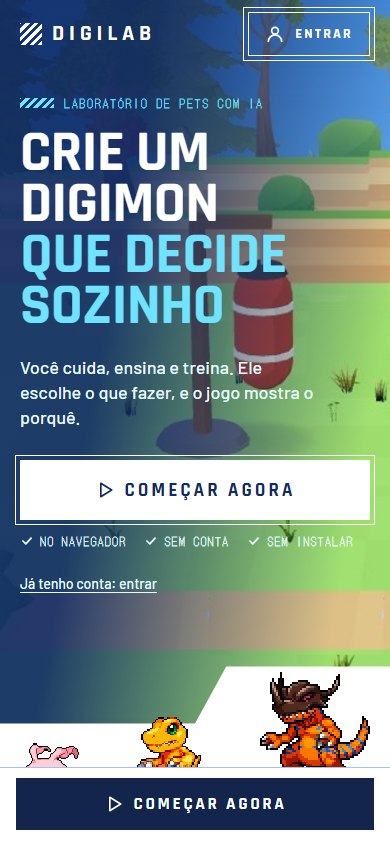
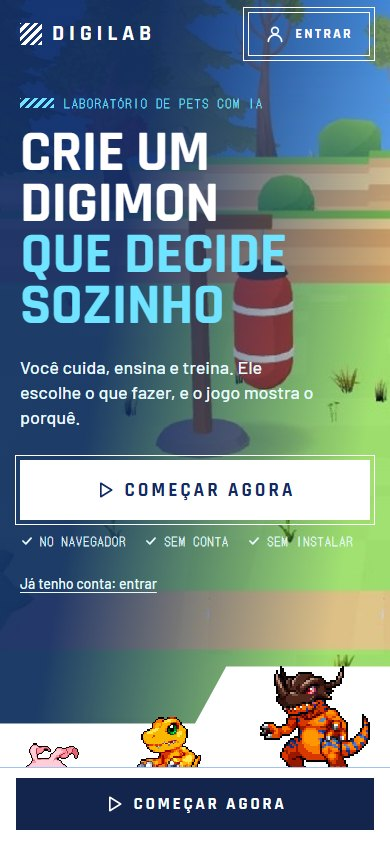
UX_TELA_PET: o Greymon da pagina de entrada de olho aberto

Changed region(s): [[0.6462, 0.7701, 0.9538, 0.9242]]

diff --git a/docs/pranchas/ux-pagina-inicial/inicial.html b/docs/pranchas/ux-pagina-inicial/inicial.html
@@ -23,7 +23,7 @@
     <a class="ja" href="#/config/conta">Já tenho conta: entrar</a>
   </div>
   <span class="corte" aria-hidden="true"></span>
-  <div class="fila" aria-label="A linha do Agumon, do In-Training ao Mega"><figure><span class="pet vira" role="img" aria-label="Koromon" style="width:59px;height:49px;background-image:url('../../../../Assets/arena_up/sprites/Koromon.png');background-size:956px 668px;background-position:-60px -44px"></span><figcaption class="lcd"><b>Koromon</b><span class="nv"> · In-Training</span></figcaption></figure><figure><span class="pet vira" role="img" aria-label="Agumon" style="width:68px;height:75px;background-image:url('../../../../Assets/arena_up/sprites/Agumon.png');background-size:996px 723px;background-position:-50px -18px"></span><figcaption class="lcd"><b>Agumon</b><span class="nv"> · Rookie</span></figcaption></figure><figure><span class="pet vira" role="img" aria-label="Greymon" style="width:110px;height:120px;background-image:url('../../../../Assets/arena_up/sprites/Greymon.png');background-size:1244px 1104px;background-position:-48px -24px"></span><figcaption class="lcd"><b>Greymon</b><span class="nv"> · Champion</span></figcaption></figure><figure><span class="pet vira" role="img" aria-label="MetalGreymon" style="width:144px;height:122px;background-image:url('../../../../Assets/arena_up/sprites/MetalGreymon.png');background-size:1733px 1096px;background-position:-88px -24px"></span><figcaption class="lcd"><b>MetalGreymon</b><span class="nv"> · Ultimate</span></figcaption></figure><figure><span class="pet vira" role="img" aria-label="WarGreymon" style="width:169px;height:136px;background-image:url('../../../../Assets/arena_up/sprites/WarGreymon_Adventure.png');background-size:3032px 2431px;background-position:-183px -194px"></span><figcaption class="lcd"><b>WarGreymon</b><span class="nv"> · Mega</span></figcaption></figure></div>
+  <div class="fila" aria-label="A linha do Agumon, do In-Training ao Mega"><figure><span class="pet vira" role="img" aria-label="Koromon" style="width:59px;height:49px;background-image:url('../../../../Assets/arena_up/sprites/Koromon.png');background-size:956px 668px;background-position:-60px -44px"></span><figcaption class="lcd"><b>Koromon</b><span class="nv"> · In-Training</span></figcaption></figure><figure><span class="pet vira" role="img" aria-label="Agumon" style="width:68px;height:75px;background-image:url('../../../../Assets/arena_up/sprites/Agumon.png');background-size:996px 723px;background-position:-50px -18px"></span><figcaption class="lcd"><b>Agumon</b><span class="nv"> · Rookie</span></figcaption></figure><figure><span class="pet vira" role="img" aria-label="Greymon" style="width:110px;height:126px;background-image:url('../../../../Assets/arena_up/sprites/Greymon.png');background-size:1244px 1104px;background-position:-760px -650px"></span><figcaption class="lcd"><b>Greymon</b><span class="nv"> · Champion</span></figcaption></figure><figure><span class="pet vira" role="img" aria-label="MetalGreymon" style="width:144px;height:122px;background-image:url('../../../../Assets/arena_up/sprites/MetalGreymon.png');background-size:1733px 1096px;background-position:-88px -24px"></span><figcaption class="lcd"><b>MetalGreymon</b><span class="nv"> · Ultimate</span></figcaption></figure><figure><span class="pet vira" role="img" aria-label="WarGreymon" style="width:169px;height:136px;background-image:url('../../../../Assets/arena_up/sprites/WarGreymon_Adventure.png');background-size:3032px 2431px;background-position:-183px -194px"></span><figcaption class="lcd"><b>WarGreymon</b><span class="nv"> · Mega</span></figcaption></figure></div>
   <span class="regua" aria-hidden="true"></span>
   <span class="nota" style="right:20px;top:90px;max-width:320px">1 · a ideia do 'Explore 14K': a imagem grande (a ilha de verdade, de uma captura do jogo), o título em caixa alta e UM botão. Ele leva direto ao jogo (CN-1: sem conta)</span>
   <span class="nota" style="right:20px;bottom:150px;max-width:300px">embaixo a imagem acaba num corte reto, em degrau (as formas do Valorant), e os pets ficam na borda, sobre uma régua de laboratório. É a linha do Agumon no jogo (nomes.ts e formas.ts), do In-Training ao Mega; é uma das linhas possíveis, não a única</span>
@@ -83,7 +83,7 @@
   <ul class="tres">
     <li><span class="palco"><span class="pet" role="img" aria-label="Tokomon" style="width:61px;height:48px;background-image:url('../../../../Assets/arena_up/sprites/Tokomon.png');background-size:2164px 1036px;background-position:-30px -534px"></span></span><h3>Cuidar</h3><p>Alimentar, brincar, limpar e dar carinho. Ele sente e responde.</p></li>
     <li><span class="palco"><span class="pet" role="img" aria-label="Agumon" style="width:68px;height:75px;background-image:url('../../../../Assets/arena_up/sprites/Agumon.png');background-size:996px 723px;background-position:-50px -18px"></span></span><h3>Treinar</h3><p>Seis exercícios no saco de pancada. O treino muda os golpes.</p></li>
-    <li><span class="palco"><span class="pet" role="img" aria-label="Greymon" style="width:61px;height:66px;background-image:url('../../../../Assets/arena_up/sprites/Greymon.png');background-size:684px 607px;background-position:-26px -13px"></span></span><h3>Lutar</h3><p>Ele luta sozinho na arena. Seis medalhas até a Liga.</p></li>
+    <li><span class="palco"><span class="pet" role="img" aria-label="Greymon" style="width:61px;height:69px;background-image:url('../../../../Assets/arena_up/sprites/Greymon.png');background-size:684px 607px;background-position:-418px -358px"></span></span><h3>Lutar</h3><p>Ele luta sozinho na arena. Seis medalhas até a Liga.</p></li>
   </ul>
   <div class="fecho"><a class="bt claro jogar" href="#/pet"><svg class="ic" viewBox="0 0 24 24" aria-hidden="true"><path d="M7 4l13 8-13 8z"/></svg>Começar agora</a><ul class="garantias" aria-label="Para começar"><li><svg class="ic" viewBox="0 0 24 24" aria-hidden="true"><path d="M5 12l5 5 9-10"/></svg>No navegador</li><li><svg class="ic" viewBox="0 0 24 24" aria-hidden="true"><path d="M5 12l5 5 9-10"/></svg>Sem conta</li><li><svg class="ic" viewBox="0 0 24 24" aria-hidden="true"><path d="M5 12l5 5 9-10"/></svg>Sem instalar</li></ul></div>
   <span class="nota" style="left:20px;top:80px;max-width:300px">4 · a faixa azul do fim, com a borda em degraus de circuito no lugar do papel rasgado, três colunas e o botão de novo</span>

diff --git a/docs/pranchas/ux-pagina-inicial/gerar.py b/docs/pranchas/ux-pagina-inicial/gerar.py
@@ -46,6 +46,11 @@ def ic(n: str, cls: str = "ic") -> str:
     return f'<svg class="{cls}" viewBox="0 0 24 24" aria-hidden="true">{IC[n]}</svg>' if n in IC else G.svg(n, cls)
 
 
+# o primeiro quadro do Greymon esta de olho fechado (o Matheus viu, 2026-11-12): a folha tem 7 x 7 quadros de 622/7 x 552/7 px, e o
+# escolhido e o da coluna 5, linha 5 (parado, de olho aberto)
+REGIAO = {"Greymon": (355, 315, 444, 394)}
+
+
 def _primeira_faixa(ocupado: list) -> tuple[int, int]:
     """a primeira faixa ocupada com 8 px ou mais (algumas folhas tem um pixel solto antes do primeiro quadro)"""
     i = 0
@@ -63,10 +68,13 @@ def pet(nome: str, k: float, vira: bool = False, arq: str = "") -> str:
     im = Image.open(ASSETS / f"{arq}.png").convert("RGBA")
     al = im.getchannel("A")
     W, H = im.size
-    x0, x1 = _primeira_faixa([al.crop((x, 0, x + 1, H)).getbbox() is not None for x in range(W)])
-    y0, y1 = _primeira_faixa([al.crop((x0, y, x1, y + 1)).getbbox() is not None for y in range(H)])
+    if nome in REGIAO:   # um quadro escolhido a mao, pela regiao dele na folha
+        x0, y0, x1, y1 = REGIAO[nome]
+    else:
+        x0, x1 = _primeira_faixa([al.crop((x, 0, x + 1, H)).getbbox() is not None for x in range(W)])
+        y0, y1 = _primeira_faixa([al.crop((x0, y, x1, y + 1)).getbbox() is not None for y in range(H)])
     bx = al.crop((x0, y0, x1, y1)).getbbox()
-    x0, x1 = x0 + bx[0], x0 + bx[2]
+    x0, x1, y0, y1 = x0 + bx[0], x0 + bx[2], y0 + bx[1], y0 + bx[3]
     return (f'<span class="pet{" vira" if vira else ""}" role="img" aria-label="{nome}" style="width:{(x1 - x0) * k:.0f}px;height:{(y1 - y0) * k:.0f}px;'
             f"background-image:url('{G.A}/sprites/{arq}.png');background-size:{W * k:.0f}px {H * k:.0f}px;"
             f'background-position:{-x0 * k:.0f}px {-y0 * k:.0f}px"></span>')

diff --git a/docs/REGISTRO_DESVIOS.md b/docs/REGISTRO_DESVIOS.md
@@ -738,6 +738,7 @@ de base em `docs/historico/registro_lotes.json`.
 - [2026-11-12 — GOSTO_VISUAL, GV3b: o adendo da GV3 com o enjoo ligado (Claude Code, Opus 5.5, branch `v3-gosto-visual-gv3b`)](registro/2026-11.md)
 - [2026-11-12 — CONTA: o anúncio que destrava a função paga e a análise por posição (Claude Code, Opus 5.5, branch `v3-conta-anuncios`)](registro/2026-11.md)
 - [2026-11-12 — CONTA: as CN-15 a CN-18 decididas pela recomendação (Claude Code, Opus 5.5, branch `v3-conta-anuncios`)](registro/2026-11.md)
+- [2026-11-12 — GOSTO_VISUAL, GV3b: as escolhas do adendo DECIDIDAS, antes da primeira vida (Claude Code, Opus 5.5, branch `v3-gosto-visual-gv3b-resultado`)](registro/2026-11.md)
 - [2026-11-12 — UX_TELA_PET, a prancha da conta: entrar e primeiro acesso (Gerente da UX_TELA_PET, Claude Code, Fable 5.2, branch `v3-ux-conta-pranchas`)](registro/2026-11.md)
 - [2026-11-12 — GOSTO_VISUAL: a TV no jogo, as decisões A a E e o enjoo ligado (Claude Code, Opus 5.5, branch `v3-gosto-visual-tv-jogo`)](registro/2026-11.md)
 - [2026-11-12 — CONTA: a comparação dos provedores de nuvem (Claude Code, Opus 5.5, branch `v3-conta-hospedagem`)](registro/2026-11.md)
@@ -751,6 +752,7 @@ de base em `docs/historico/registro_lotes.json`.
 - [2026-11-12 — COOPERACAO: o plano da bancada aprovado (Claude Code, Opus 5.5, branch `v3-cooperacao-bancada-aprovado`)](registro/2026-11.md)
 - [2026-11-12 — UX_TELA_PET, a prancha da página de entrada (Gerente da UX_TELA_PET, Claude Code, Fable 5.2, branch `v3-ux-pagina-inicial`)](registro/2026-11.md)
 - [2026-11-12 — MOITA_NINHO: o que tapa o pet fica transparente (Claude Code, Opus 5.5, worker, branch `v3-moita-ninho`)](registro/2026-11.md)
+- [2026-11-12 — GOSTO_VISUAL, GV3b: o adendo 2 (Claude Code, Opus 5.5, branch `v3-gosto-visual-gv3b-resultado`)](registro/2026-11.md)
 - [2026-11-12 — COOPERACAO, CO6c: o espelho TS, o G-PAR-CO6 e o painel (Claude Code, Opus 5.5, branch `v3-cooperacao-co6c`)](registro/2026-11.md)
 - [2026-11-12 — COOPERACAO, CO7a: o gabarito das vidas com a CO6 ligada (Claude Code, Opus 5.5, branch `v3-cooperacao-co7`)](registro/2026-11.md)
 - [2026-11-12 — COOPERACAO, CO7b: o escudo, a universalização e a culpa e a inveja, no Python (Claude Code, Opus 5.5, branch `v3-cooperacao-co7b`)](registro/2026-11.md)

diff --git a/docs/registro/2026-11.md b/docs/registro/2026-11.md
@@ -7714,6 +7714,9 @@ incremental). Os dois saem iguais depois da etapa. Todos os números novos são 
   agumon" (2026-11-12). A fila passou a ser Koromon, Agumon, Greymon, MetalGreymon e WarGreymon, que é a linha do jogo (`nomes.ts` e
   `arena/formas.ts`). O Botamon saiu: o jogo começa a linha no Koromon. O WarGreymon usa a folha `WarGreymon_Adventure`, porque o primeiro
   quadro da folha `WarGreymon` é o do golpe, com poeira. É uma das linhas possíveis da Coragem, não a única.
+- **D-UXPI-13, a pose do Greymon:** o Matheus avisou "a imagem que você escolheu está com o greymon de olho fechado, escolha outra pose"
+  (2026-11-12). O primeiro quadro da folha é uma piscada; troquei pelo quadro da coluna 5, linha 5, parado e de olho aberto. O mesmo
+  quadro vale para o Greymon da coluna "Lutar".
 ## 2026-11-12 — MOITA_NINHO: o que tapa o pet fica transparente (Claude Code, Opus 5.5, worker, branch `v3-moita-ninho`)
 
 - **D-MN-1, só na vista:** as árvores e a moita na frente do ninho são células fechadas do mapa do motor (`PLANTA_ILHA_GRANDE`); o motor,
